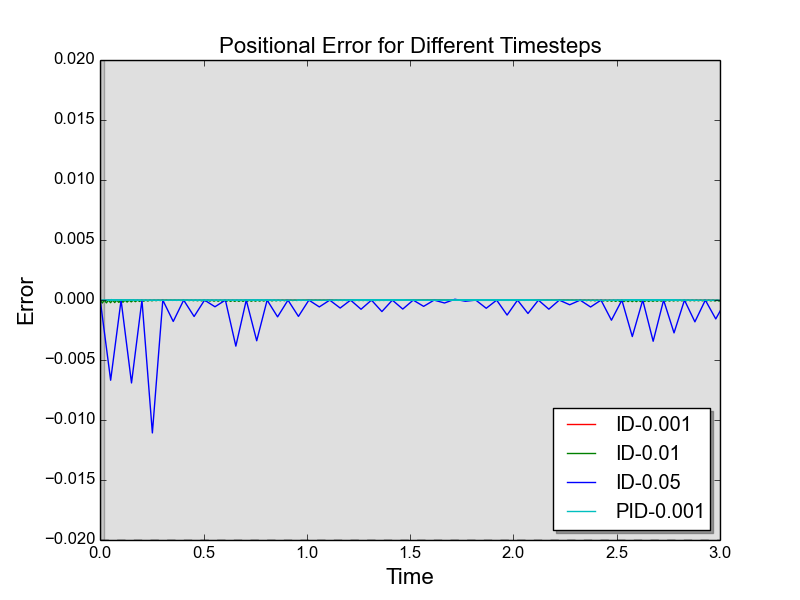
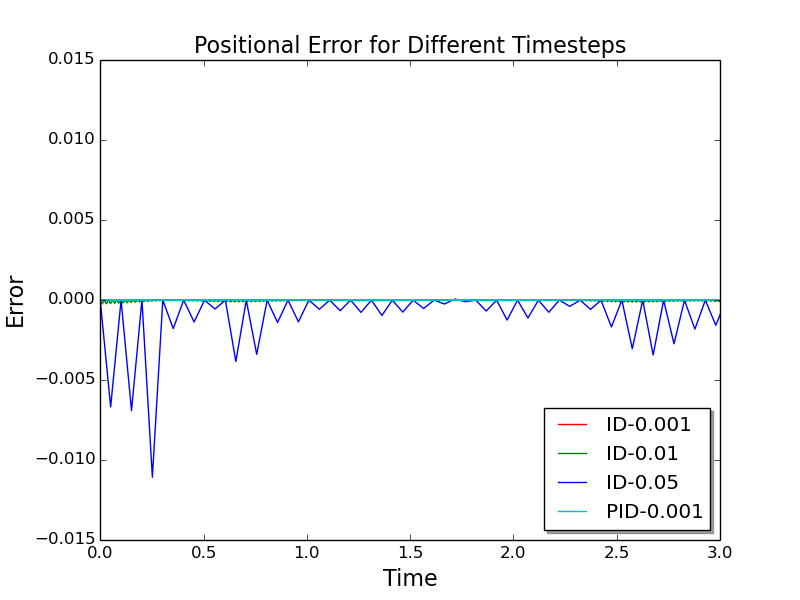
Took off error band on graphs

diff --git a/ControllerData/error/elbow/plotGearJoints.py b/ControllerData/error/elbow/plotGearJoints.py
@@ -68,9 +68,9 @@ plt.ylabel('Error', fontdict=font)
 plt.legend(loc=4, shadow=True)
 
 # annotate rise time (interval)
-plt.axhspan(set_point-error_band_delta,set_point+error_band_delta, facecolor='0.5', alpha=0.25)
-plt.axhline(y=set_point-error_band_delta, color='k',linestyle='--')
-plt.axvspan(0.0,rise_time,facecolor='0.5', alpha=0.25)
+#plt.axhspan(set_point-error_band_delta,set_point+error_band_delta, facecolor='0.5', alpha=0.25)
+#plt.axhline(y=set_point-error_band_delta, color='k',linestyle='--')
+#plt.axvspan(0.0,rise_time,facecolor='0.5', alpha=0.25)
 #plt.axvline(x=rise_time, color='k',linestyle='--')
 #plt.annotate('rise time', xy=(rise_time-.5, set_point-eps))
 

diff --git a/ControllerData/error/lfinger/plotGearJoints.py b/ControllerData/error/lfinger/plotGearJoints.py
@@ -68,9 +68,9 @@ plt.ylabel('Error', fontdict=font)
 plt.legend(loc=4, shadow=True)
 
 # annotate rise time (interval)
-plt.axhspan(set_point-error_band_delta,set_point+error_band_delta, facecolor='0.5', alpha=0.25)
-plt.axhline(y=set_point-error_band_delta, color='k',linestyle='--')
-plt.axvspan(0.0,rise_time,facecolor='0.5', alpha=0.25)
+#plt.axhspan(set_point-error_band_delta,set_point+error_band_delta, facecolor='0.5', alpha=0.25)
+#plt.axhline(y=set_point-error_band_delta, color='k',linestyle='--')
+#plt.axvspan(0.0,rise_time,facecolor='0.5', alpha=0.25)
 #plt.axvline(x=rise_time, color='k',linestyle='--')
 #plt.annotate('rise time', xy=(rise_time-.5, set_point-eps))
 

diff --git a/ControllerData/error/plotGearJoints.py b/ControllerData/error/plotGearJoints.py
@@ -68,9 +68,9 @@ plt.ylabel('Error', fontdict=font)
 plt.legend(loc=4, shadow=True)
 
 # annotate rise time (interval)
-plt.axhspan(set_point-error_band_delta,set_point+error_band_delta, facecolor='0.5', alpha=0.25)
-plt.axhline(y=set_point-error_band_delta, color='k',linestyle='--')
-plt.axvspan(0.0,rise_time,facecolor='0.5', alpha=0.25)
+#plt.axhspan(set_point-error_band_delta,set_point+error_band_delta, facecolor='0.5', alpha=0.25)
+#plt.axhline(y=set_point-error_band_delta, color='k',linestyle='--')
+#plt.axvspan(0.0,rise_time,facecolor='0.5', alpha=0.25)
 #plt.axvline(x=rise_time, color='k',linestyle='--')
 #plt.annotate('rise time', xy=(rise_time-.5, set_point-eps))
 

diff --git a/ControllerData/error/rfinger/plotGearJoints.py b/ControllerData/error/rfinger/plotGearJoints.py
@@ -68,9 +68,9 @@ plt.ylabel('Error', fontdict=font)
 plt.legend(loc=4, shadow=True)
 
 # annotate rise time (interval)
-plt.axhspan(set_point-error_band_delta,set_point+error_band_delta, facecolor='0.5', alpha=0.25)
-plt.axhline(y=set_point-error_band_delta, color='k',linestyle='--')
-plt.axvspan(0.0,rise_time,facecolor='0.5', alpha=0.25)
+#plt.axhspan(set_point-error_band_delta,set_point+error_band_delta, facecolor='0.5', alpha=0.25)
+#plt.axhline(y=set_point-error_band_delta, color='k',linestyle='--')
+#plt.axvspan(0.0,rise_time,facecolor='0.5', alpha=0.25)
 #plt.axvline(x=rise_time, color='k',linestyle='--')
 #plt.annotate('rise time', xy=(rise_time-.5, set_point-eps))
 

diff --git a/ControllerData/error/shoulderlift/plotGearJoints.py b/ControllerData/error/shoulderlift/plotGearJoints.py
@@ -68,9 +68,9 @@ plt.ylabel('Error', fontdict=font)
 plt.legend(loc=4, shadow=True)
 
 # annotate rise time (interval)
-plt.axhspan(set_point-error_band_delta,set_point+error_band_delta, facecolor='0.5', alpha=0.25)
-plt.axhline(y=set_point-error_band_delta, color='k',linestyle='--')
-plt.axvspan(0.0,rise_time,facecolor='0.5', alpha=0.25)
+#plt.axhspan(set_point-error_band_delta,set_point+error_band_delta, facecolor='0.5', alpha=0.25)
+#plt.axhline(y=set_point-error_band_delta, color='k',linestyle='--')
+#plt.axvspan(0.0,rise_time,facecolor='0.5', alpha=0.25)
 #plt.axvline(x=rise_time, color='k',linestyle='--')
 #plt.annotate('rise time', xy=(rise_time-.5, set_point-eps))
 

diff --git a/ControllerData/error/shoulderpan/plotGearJoints.py b/ControllerData/error/shoulderpan/plotGearJoints.py
@@ -68,9 +68,9 @@ plt.ylabel('Error', fontdict=font)
 plt.legend(loc=4, shadow=True)
 
 # annotate rise time (interval)
-plt.axhspan(set_point-error_band_delta,set_point+error_band_delta, facecolor='0.5', alpha=0.25)
-plt.axhline(y=set_point-error_band_delta, color='k',linestyle='--')
-plt.axvspan(0.0,rise_time,facecolor='0.5', alpha=0.25)
+#plt.axhspan(set_point-error_band_delta,set_point+error_band_delta, facecolor='0.5', alpha=0.25)
+#plt.axhline(y=set_point-error_band_delta, color='k',linestyle='--')
+#plt.axvspan(0.0,rise_time,facecolor='0.5', alpha=0.25)
 #plt.axvline(x=rise_time, color='k',linestyle='--')
 #plt.annotate('rise time', xy=(rise_time-.5, set_point-eps))
 

diff --git a/ControllerData/error/wrist1/plotGearJoints.py b/ControllerData/error/wrist1/plotGearJoints.py
@@ -68,9 +68,9 @@ plt.ylabel('Error', fontdict=font)
 plt.legend(loc=4, shadow=True)
 
 # annotate rise time (interval)
-plt.axhspan(set_point-error_band_delta,set_point+error_band_delta, facecolor='0.5', alpha=0.25)
-plt.axhline(y=set_point-error_band_delta, color='k',linestyle='--')
-plt.axvspan(0.0,rise_time,facecolor='0.5', alpha=0.25)
+#plt.axhspan(set_point-error_band_delta,set_point+error_band_delta, facecolor='0.5', alpha=0.25)
+#plt.axhline(y=set_point-error_band_delta, color='k',linestyle='--')
+#plt.axvspan(0.0,rise_time,facecolor='0.5', alpha=0.25)
 #plt.axvline(x=rise_time, color='k',linestyle='--')
 #plt.annotate('rise time', xy=(rise_time-.5, set_point-eps))
 

diff --git a/ControllerData/error/wrist2/plotGearJoints.py b/ControllerData/error/wrist2/plotGearJoints.py
@@ -68,9 +68,9 @@ plt.ylabel('Error', fontdict=font)
 plt.legend(loc=4, shadow=True)
 
 # annotate rise time (interval)
-plt.axhspan(set_point-error_band_delta,set_point+error_band_delta, facecolor='0.5', alpha=0.25)
-plt.axhline(y=set_point-error_band_delta, color='k',linestyle='--')
-plt.axvspan(0.0,rise_time,facecolor='0.5', alpha=0.25)
+#plt.axhspan(set_point-error_band_delta,set_point+error_band_delta, facecolor='0.5', alpha=0.25)
+#plt.axhline(y=set_point-error_band_delta, color='k',linestyle='--')
+#plt.axvspan(0.0,rise_time,facecolor='0.5', alpha=0.25)
 #plt.axvline(x=rise_time, color='k',linestyle='--')
 #plt.annotate('rise time', xy=(rise_time-.5, set_point-eps))
 

diff --git a/ControllerData/error/wrist3/plotGearJoints.py b/ControllerData/error/wrist3/plotGearJoints.py
@@ -68,9 +68,9 @@ plt.ylabel('Error', fontdict=font)
 plt.legend(loc=4, shadow=True)
 
 # annotate rise time (interval)
-plt.axhspan(set_point-error_band_delta,set_point+error_band_delta, facecolor='0.5', alpha=0.25)
-plt.axhline(y=set_point-error_band_delta, color='k',linestyle='--')
-plt.axvspan(0.0,rise_time,facecolor='0.5', alpha=0.25)
+#plt.axhspan(set_point-error_band_delta,set_point+error_band_delta, facecolor='0.5', alpha=0.25)
+#plt.axhline(y=set_point-error_band_delta, color='k',linestyle='--')
+#plt.axvspan(0.0,rise_time,facecolor='0.5', alpha=0.25)
 #plt.axvline(x=rise_time, color='k',linestyle='--')
 #plt.annotate('rise time', xy=(rise_time-.5, set_point-eps))
 
